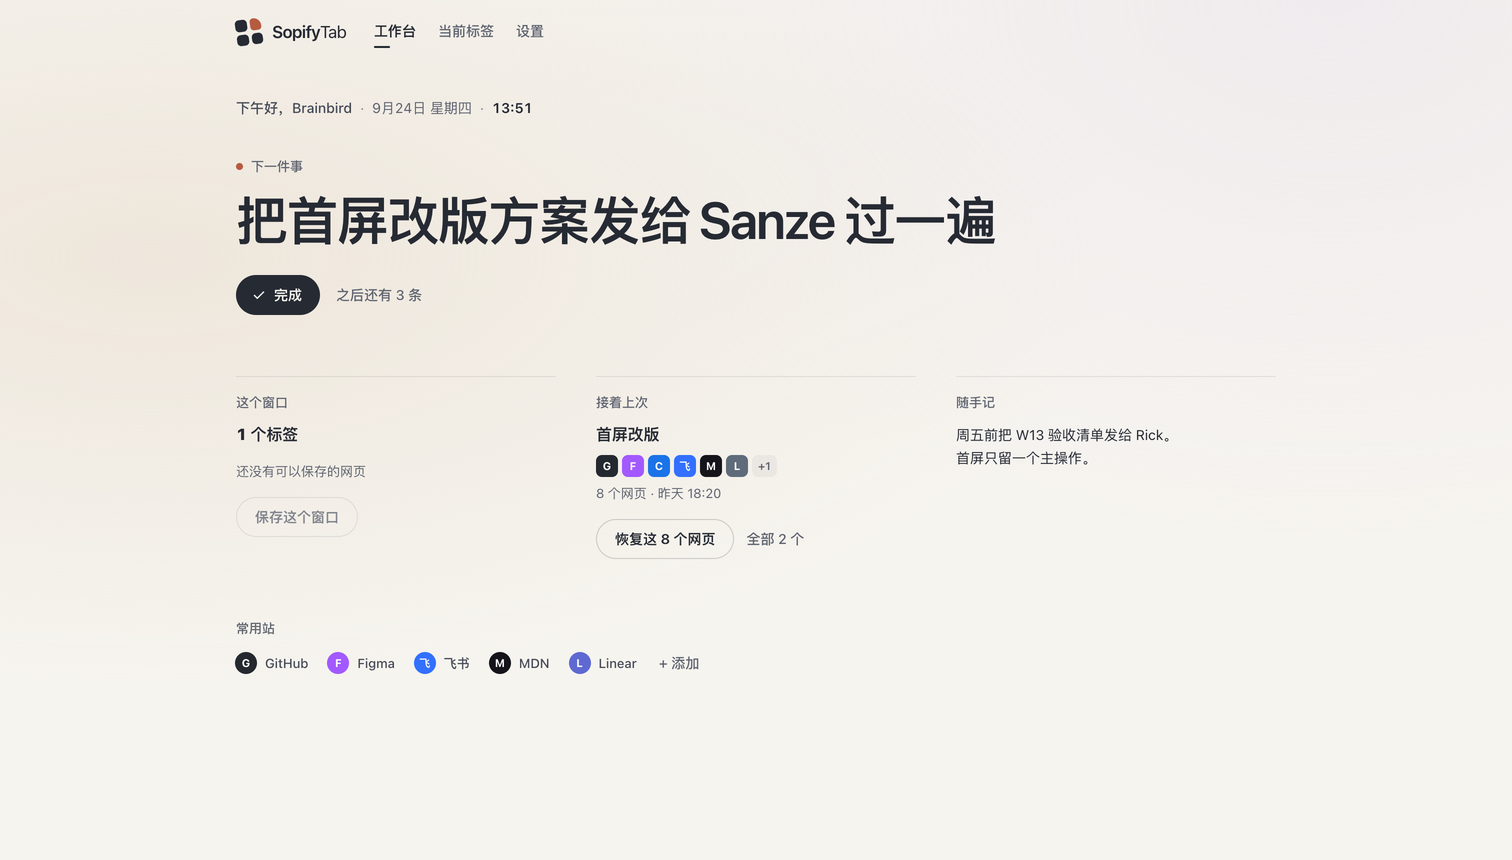
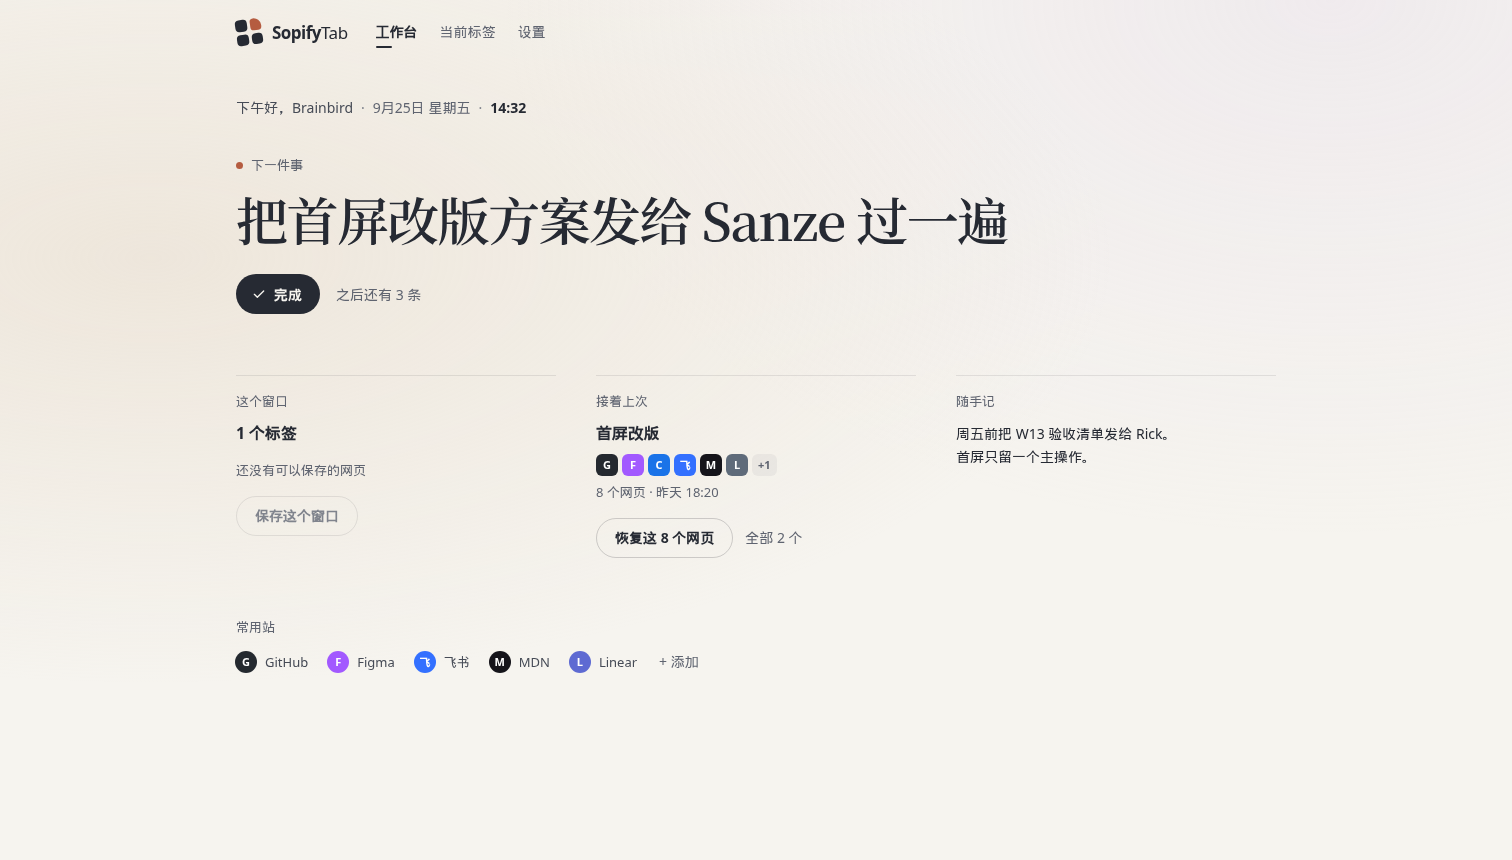
feat(firstscreen): Songti stack + note placeholder wash
Give the next-thing title and input a named CJK Songti/Mincho stack, and wash an empty note with --studio-field until it is focused.

diff --git a/extension/newtab.css b/extension/newtab.css
@@ -184,6 +184,8 @@ html[data-sky="day"] {
   --studio-solid: #fffefa;
   --studio-wash-a: rgba(230, 217, 200, 0.5);
   --studio-wash-b: rgba(227, 217, 235, 0.32);
+  --studio-field: rgba(38, 42, 51, 0.04);
+  --studio-field-hi: rgba(38, 42, 51, 0.07);
 }
 html[data-sky="night"] {
   --studio-paper: #171b27;
@@ -200,6 +202,8 @@ html[data-sky="night"] {
   --studio-solid: #1f2432;
   --studio-wash-a: rgba(91, 80, 115, 0.18);
   --studio-wash-b: rgba(48, 80, 120, 0.14);
+  --studio-field: rgba(255, 255, 255, 0.04);
+  --studio-field-hi: rgba(255, 255, 255, 0.07);
 }
 
 body:has(.studio-desk.active) {
@@ -1229,6 +1233,7 @@ body.studio-home:not(.sidepanel) .main {
 }
 .kicker .dot { width: 7px; height: 7px; border-radius: 50%; background: var(--studio-accent); }
 .next-title, .next-input {
+  font-family: "Songti SC", "Songti TC", "STSong", "Source Han Serif SC", "Noto Serif CJK SC", "Noto Serif SC", "Hiragino Mincho ProN", "Yu Mincho", "YuMincho", "MS PMincho";
   font-size: clamp(34px, 3.8vw, 52px);
   line-height: 1.2;
   font-weight: 600;
@@ -1346,7 +1351,10 @@ html[data-sky="night"] .studio-desk .fav:not(.more) { box-shadow: inset 0 0 0 1p
 }
 .studio-desk .shelf textarea.note::placeholder { color: var(--studio-muted); }
 .studio-desk .shelf textarea.note:hover { background: var(--studio-hover); }
+.studio-desk .shelf textarea.note:placeholder-shown { background: var(--studio-field); }
+.studio-desk .shelf textarea.note:placeholder-shown:hover { background: var(--studio-field-hi); }
 .studio-desk .shelf textarea.note:focus { background: var(--studio-solid); box-shadow: inset 0 0 0 1px var(--studio-line-2); }
+.studio-desk .shelf textarea.note:focus:hover { background: var(--studio-solid); box-shadow: inset 0 0 0 1px var(--studio-line-2); }
 .note-status:empty { display: none; }
 .col.flash { animation: fs-flash 1400ms var(--out); }
 @keyframes fs-flash { from { background: var(--studio-flash); } to { background: transparent; } }

diff --git a/prototype/firstscreen-v3/styles.css b/prototype/firstscreen-v3/styles.css
@@ -25,6 +25,8 @@ html[data-sky="day"] {
   --lift: 0 1px 2px rgba(60, 46, 30, 0.05), 0 14px 30px -18px rgba(60, 46, 30, 0.3);
   --cover-s: 34%;
   --cover-l: 91%;
+  --studio-field: rgba(38, 42, 51, 0.04);
+  --studio-field-hi: rgba(38, 42, 51, 0.07);
 }
 html[data-sky="night"] {
   color-scheme: dark;
@@ -46,6 +48,8 @@ html[data-sky="night"] {
   --lift: 0 1px 2px rgba(0, 0, 0, 0.3), 0 16px 34px -18px rgba(0, 0, 0, 0.7);
   --cover-s: 12%;
   --cover-l: 23%;
+  --studio-field: rgba(255, 255, 255, 0.04);
+  --studio-field-hi: rgba(255, 255, 255, 0.07);
 }
 
 *, *::before, *::after { box-sizing: border-box; }
@@ -172,6 +176,7 @@ svg.i { width: 16px; height: 16px; fill: none; stroke: currentColor; stroke-widt
 .kicker .dot { width: 7px; height: 7px; border-radius: 50%; background: var(--accent); }
 .next-title,
 .next-input {
+  font-family: "Songti SC", "Songti TC", "STSong", "Source Han Serif SC", "Noto Serif CJK SC", "Noto Serif SC", "Hiragino Mincho ProN", "Yu Mincho", "YuMincho", "MS PMincho";
   font-size: clamp(34px, 3.8vw, 52px);
   line-height: 1.2;
   font-weight: 600;
@@ -289,7 +294,10 @@ html[data-sky="night"] .mini-bar i { box-shadow: 0 0 0 1px rgba(255, 255, 255, 0
 }
 .note::placeholder { color: var(--muted); }
 .note:hover { background: var(--hover); }
+.note:placeholder-shown { background: var(--studio-field); }
+.note:placeholder-shown:hover { background: var(--studio-field-hi); }
 .note:focus { background: var(--solid); box-shadow: inset 0 0 0 1px var(--line-2); }
+.note:focus:hover { background: var(--solid); box-shadow: inset 0 0 0 1px var(--line-2); }
 .note-status:empty { display: none; }
 
 .flash { animation: flash 1400ms var(--out); }

diff --git a/host/test-w13-firstscreen.js b/host/test-w13-firstscreen.js
@@ -112,4 +112,18 @@ assert.ok(/html\[data-sky="night"\][^{]*\.stars-layer\s*\{[^}]*opacity:\s*1/.tes
 assert.ok(!/<canvas/i.test(html));
 assert.ok(!/getContext\s*\(\s*['"](?:webgl|experimental-webgl)['"]/i.test(html + js + css));
 
+const SONG_STACK = '"Songti SC", "Songti TC", "STSong", "Source Han Serif SC", "Noto Serif CJK SC", "Noto Serif SC", "Hiragino Mincho ProN", "Yu Mincho", "YuMincho", "MS PMincho"';
+const titleInput = ruleBlock(css, '.next-title, .next-input');
+assert.ok(titleInput.includes(`font-family: ${SONG_STACK}`), 'next title and input use the Songti stack');
+assert.ok(titleInput.includes('.next-title') && titleInput.includes('.next-input'));
+const family = (titleInput.split('font-family:')[1] || '').split(';')[0];
+assert.ok(!/SimSun|宋体/.test(family), 'Songti stack must not name SimSun or 宋体');
+assert.ok(!/(^|,)\s*serif\s*(,|$)/i.test(family), 'Songti stack must not end on bare serif');
+assert.ok(day.includes('--studio-field: rgba(38, 42, 51, 0.04);'));
+assert.ok(day.includes('--studio-field-hi: rgba(38, 42, 51, 0.07);'));
+assert.ok(night.includes('--studio-field: rgba(255, 255, 255, 0.04);'));
+assert.ok(night.includes('--studio-field-hi: rgba(255, 255, 255, 0.07);'));
+assert.ok(css.includes('.studio-desk .shelf textarea.note:placeholder-shown { background: var(--studio-field); }'));
+assert.ok(css.includes('.studio-desk .shelf textarea.note:placeholder-shown:hover { background: var(--studio-field-hi); }'));
+
 console.log('test-w13-firstscreen: ok');
